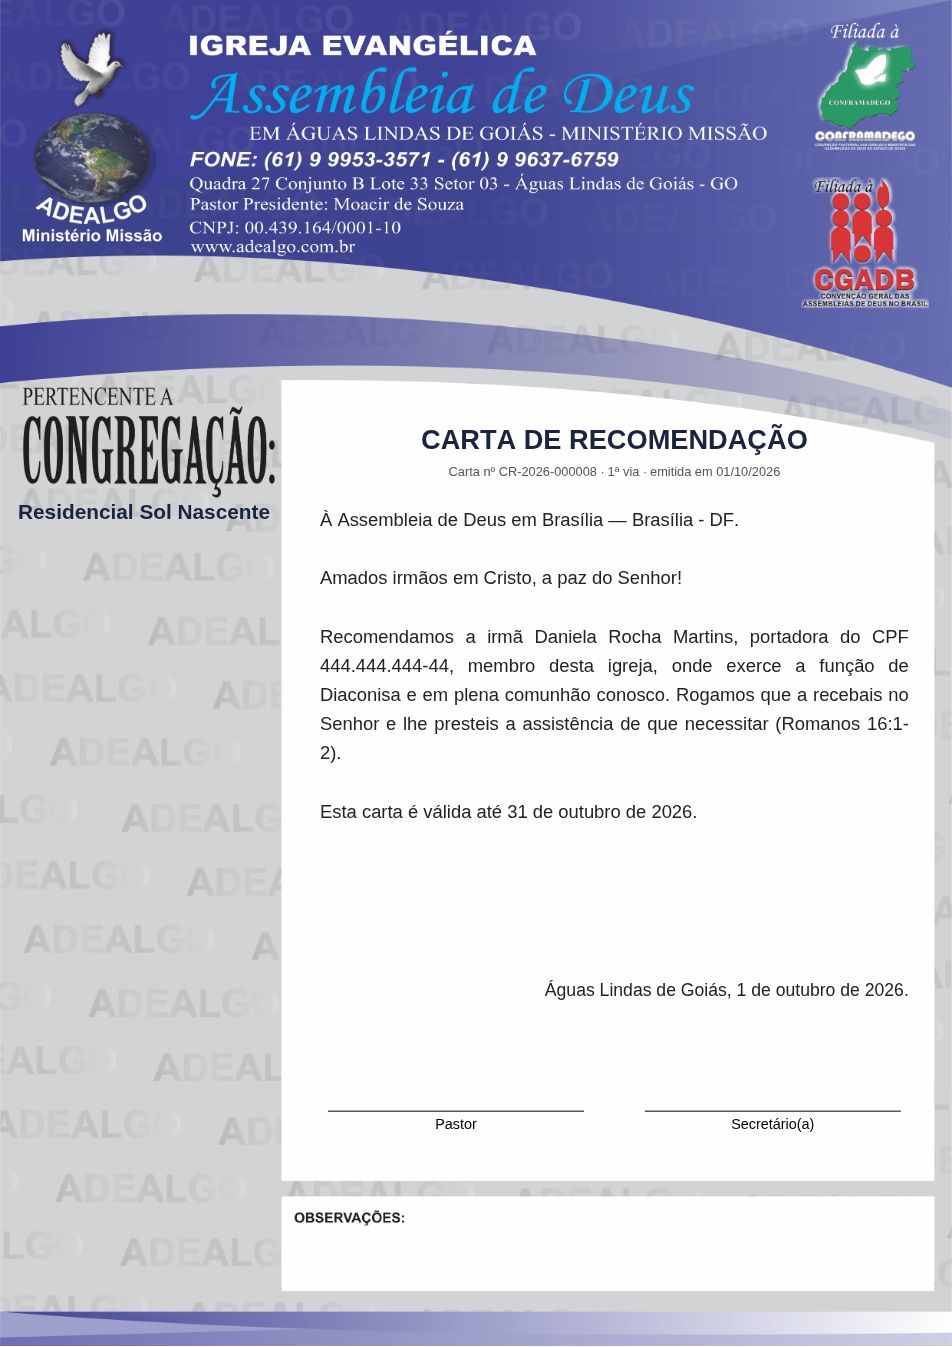
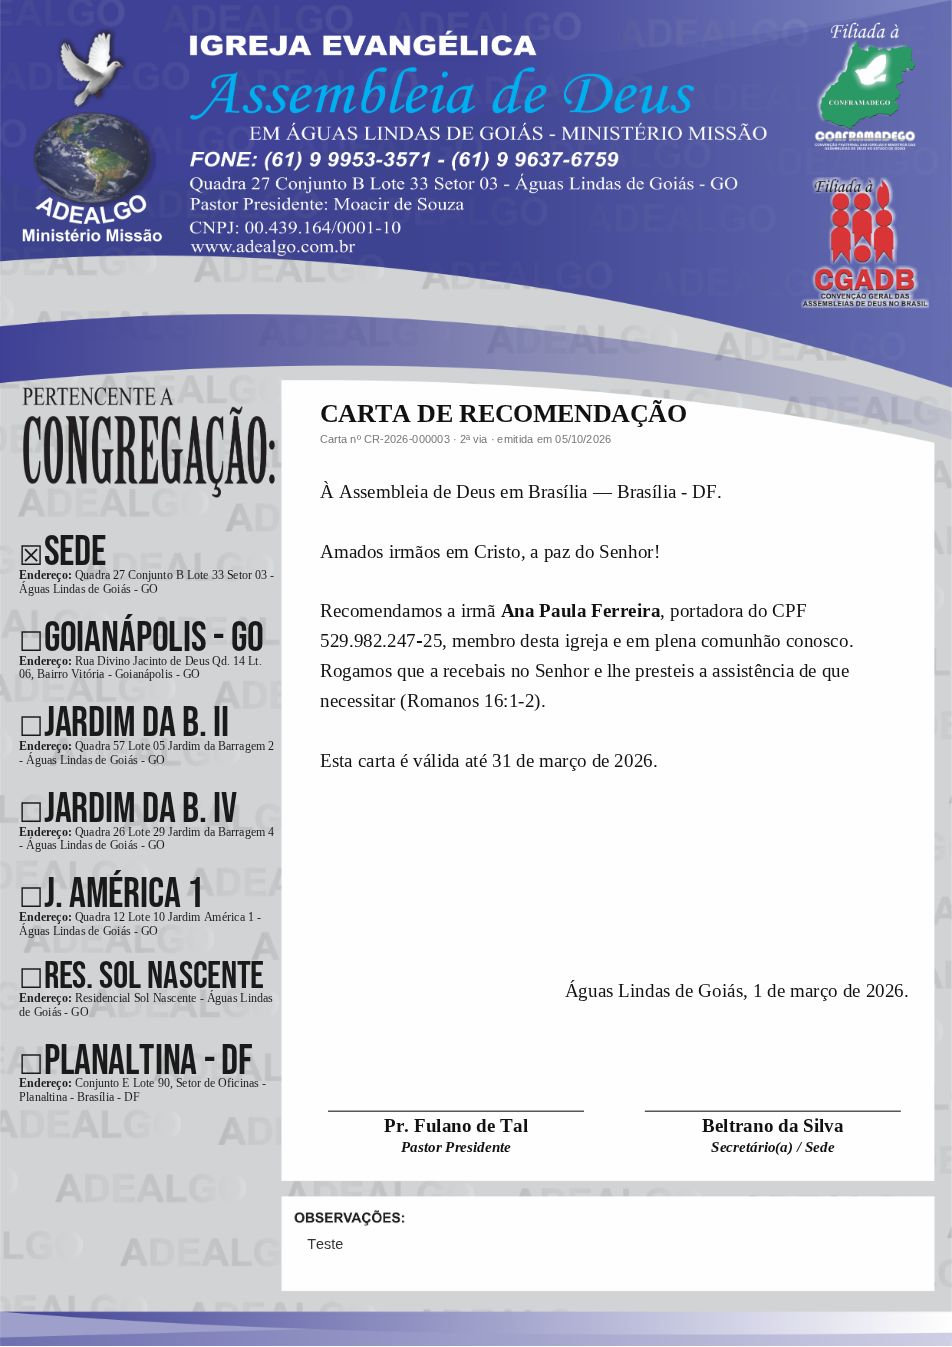
Atualiza a apresentação (origem: ministerio@a42a9a6)

diff --git a/README.md b/README.md
@@ -199,6 +199,8 @@ Cada carta é registrada com destino, cidade, data e, na recomendação, validad
 - **Disciplina:** como atesta plena comunhão, a carta **não é emitida para membro em disciplina**.
 - **Validade:** a recomendação vencida também não é emitida.
 - **Acesso:** pela lista de membros, o botão de carta já abre o cadastro com o membro.
+- **Layout:** igual ao da carta feita à mão. Na coluna "Pertencente à congregação" saem as congregações com o quadradinho (☒ na da carta), o nome em letras condensadas e o endereço abaixo; o texto sai com serifa, o nome do membro em negrito e, abaixo das linhas, o nome e o cargo de quem assina (também na via para assinar à mão).
+- **Congregações na carta:** em **Congregações**, cada uma tem "Nome nas cartas" (ex.: JARDIM DA B. II), "Endereço nas cartas" e "Posição" (vazio = não aparece; a congregação da carta aparece sempre). Os valores iniciais vieram da carta em uso.
 
 ![Cartas](docs/telas/23b-admin-cartas.jpg)
 
